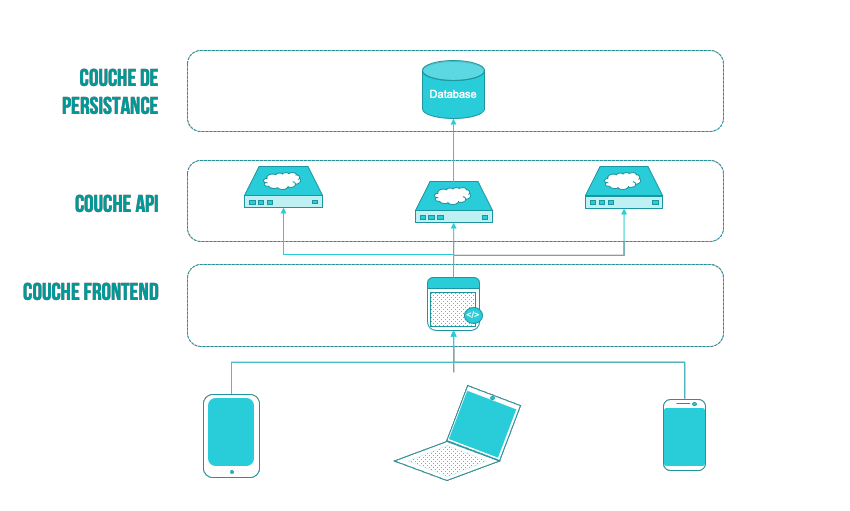
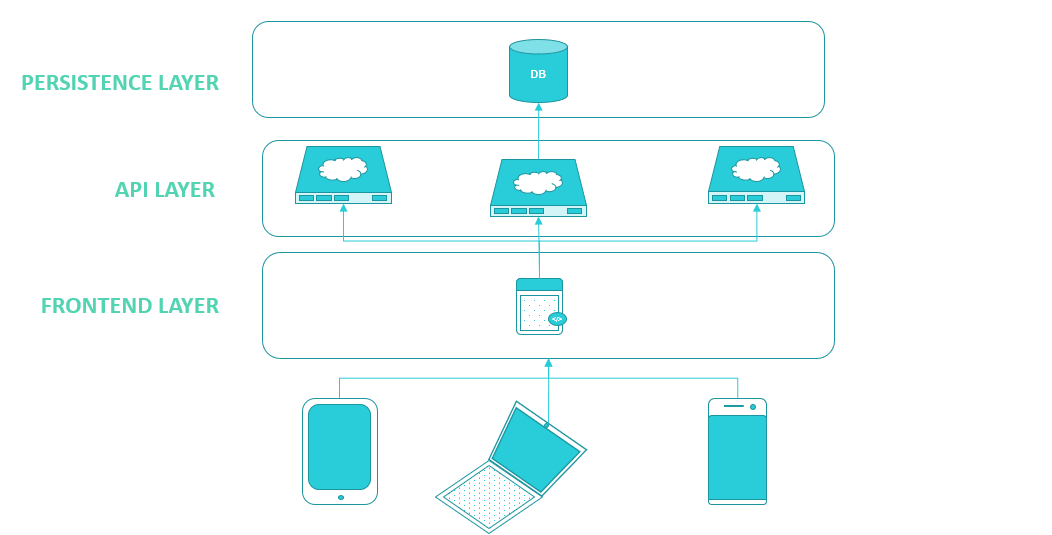
change images to en

diff --git a/src/components/03-microfrontends/FundamentalPrinciples.vue b/src/components/03-microfrontends/FundamentalPrinciples.vue
@@ -9,7 +9,7 @@ export default {
     <div class="slide-title">
       <h5>FUNDAMENTAL PRINCIPLES</h5>
     </div>
-    <div class="grow sm:pb-16 pb-12 flex flex-col">
+    <div class="grow sm:pb-24 pb-12 flex flex-col">
       <div class="grid grow md:gap-4 grid-cols-3">
         <div
           class="
